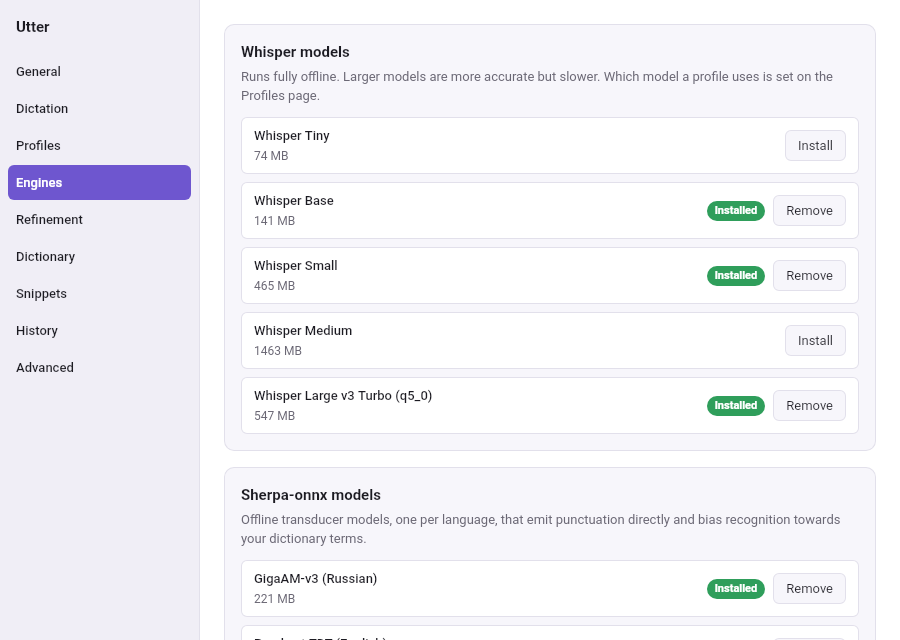
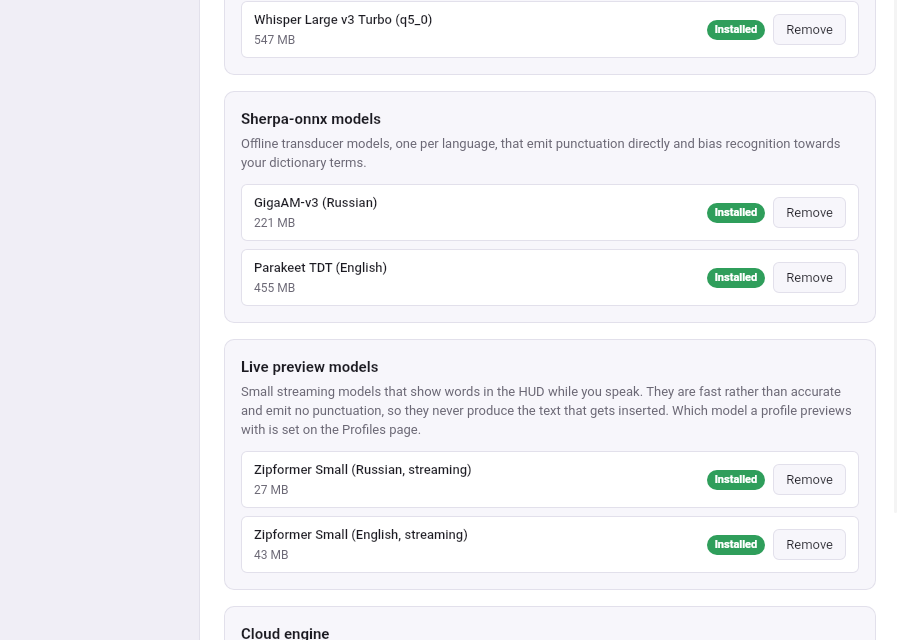
docs(img): reshoot the HUD, Profiles and Engines screenshots for the live preview

diff --git a/README.md b/README.md
@@ -85,17 +85,17 @@ level meter, and — for a profile that has a live preview model selected — th
 partial transcript as it comes in.
 
 <p align="center">
-  <img src="docs/img/settings-profiles-light.png" alt="Profiles settings page showing a Russian profile bound to Ctrl+Super running GigaAM-v3, with an English profile below it" width="70%">
+  <img src="docs/img/settings-profiles-light.png" alt="Profiles settings page showing a Russian profile bound to Ctrl+Super, running GigaAM-v3 with a Zipformer Small live preview" width="70%">
 </p>
 
 **Profiles** — one chord per language. Each profile carries its own engine,
-model, language tag and refinement policy, so pressing its hotkey selects the
-whole set at once.
+model, language tag, live preview model and refinement policy, so pressing its
+hotkey selects the whole set at once.
 
 | | |
 |---|---|
-| ![Engines settings page listing whisper.cpp and sherpa-onnx models with their install state](docs/img/settings-engines-light.png) | ![Refinement settings page with the provider connection, master switch, and a live test](docs/img/settings-refinement-light.png) |
-| **Engines** — download and remove whisper.cpp and sherpa-onnx models, and hold the cloud engine's API key; which of them a profile uses is set on the Profiles page. | **Refinement** — the LLM connection profiles can send transcripts through: any OpenAI-compatible chat endpoint, including a local Ollama, with a master switch and a live test. |
+| ![Engines settings page listing sherpa-onnx models and live preview models with their install state](docs/img/settings-engines-light.png) | ![Refinement settings page with the provider connection, master switch, and a live test](docs/img/settings-refinement-light.png) |
+| **Engines** — download and remove whisper.cpp, sherpa-onnx and live preview models, and hold the cloud engine's API key; which of them a profile uses is set on the Profiles page. | **Refinement** — the LLM connection profiles can send transcripts through: any OpenAI-compatible chat endpoint, including a local Ollama, with a master switch and a live test. |
 | ![Dictionary settings page with custom terms and heard/write replacement rules](docs/img/settings-dictionary-light.png) | ![Snippets settings page with trigger phrases and their expansion bodies](docs/img/settings-snippets-light.png) |
 | **Dictionary** — custom terms and literal replacement rules applied to every transcript. | **Snippets** — a spoken trigger expands to a stored template, bypassing refinement. |
 
